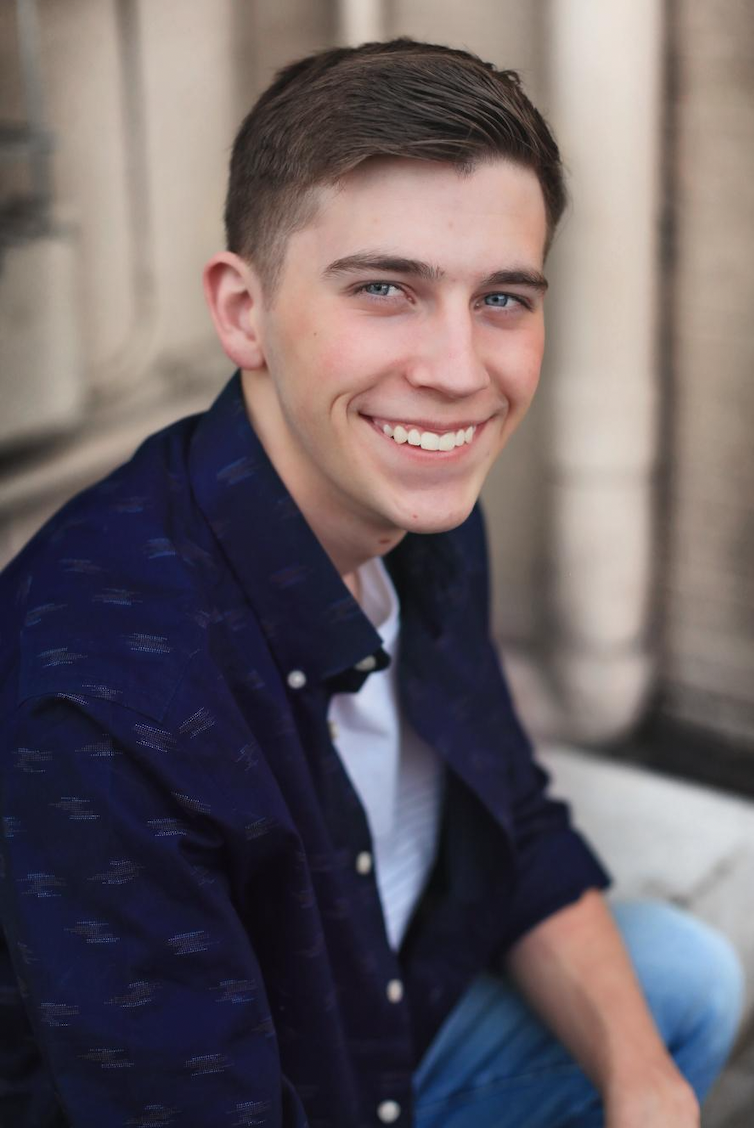
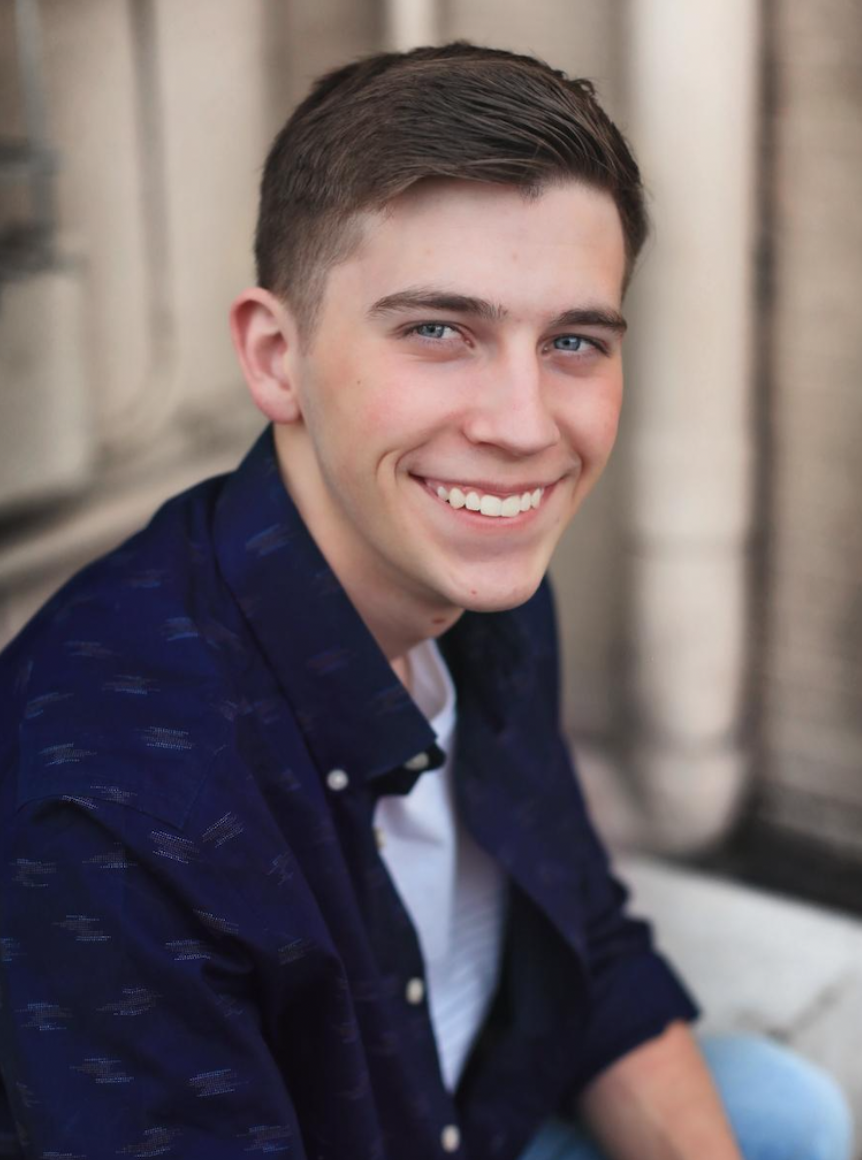
Home Page Done

diff --git a/Personal_Site/home.html b/Personal_Site/home.html
@@ -4,11 +4,14 @@
     <meta charset="UTF-8">
     <meta http-equiv="X-UA-Compatible" content="IE=edge">
     <meta name="viewport" content="width=device-width, initial-scale=1.0">
+    <link rel="stylesheet" href="styles/layout.css">
+    <link rel="stylesheet" href="styles/home.css">
+    
     <title>Jayton's Portfolio</title>
 </head>
 <body>
     <header>
-        <a href="home.html"><img src="img/logo.png" alt="Logo"></a>
+        <a href="home.html"><img src="img/logo.png" alt="Logo" id="logo"></a>
         <nav>
             <a href="home.html">Home</a>
             <a href="about-me.html">About Me</a>
@@ -18,27 +21,27 @@
     </header>
 
     <main>
-        <img src="img/portfolio-pic.png" alt="Picture of Jayton" width="400">
+        <img src="img/home_background.png" alt="Picture of Jayton" id="main_img" width="100%">
         <h1>Jayton Crockett</h1>
-        <h2>Computer Programmer</h2>
+        <h2>Full Stack Developer</h2>
     </main>
 
     <footer>
         <h3>Portfolio Site &copy; 2022 - Jayton Crockett</h3>
         
-        <a href="site-plan.html">Site-plan</a>
-        <a href="contact.html">Contact</a>
+        <a href="site-plan.html" class="footer_links">Site-plan</a>
+        <a href="contact.html" class="footer_links">Contact</a>
         <div class="social">
             <a href="https://facebook.com/" target="_blank">
-                <img src="img/facebook.png" alt="fb icon" width="40px">
+                <img src="img/facebook.png" alt="fb icon">
             </a>
 
             <a href="https://instagram.com" target="_blank">
-                <img src="img/instagram.png" alt="instagram icon" width="40px">
+                <img src="img/instagram.png" alt="instagram icon">
             </a>
 
             <a href="https://linkedin.com" target="_blank">
-                <img src="img/linkedin.png" alt="linkedin icon" width="40px">
+                <img src="img/linkedin.png" alt="linkedin icon">
             </a>
         </div>
     </footer>

diff --git a/Personal_Site/styles/layout.css b/Personal_Site/styles/layout.css
@@ -1,0 +1,84 @@
+
+/* body */
+body{
+    background-color: #6f3e9f1c;
+}
+
+/* Header */
+header{
+    background-color: #191827;
+    margin: -36px -10px 10px -10px;
+    padding: 65px 10px;
+}
+img#logo{
+    width: 100px;
+    float: left;
+    margin-top: -30px; 
+    margin-left: 25px;
+    padding: 0px 0px 10px 10px;
+    transition: transform .6s;
+}
+img#logo:hover{
+    transform: scale(1.1);
+}
+nav{
+    float: right;
+}
+nav a{
+    font-size: 1.15em;
+    text-align: center;
+    color: #03DBE9;
+    text-decoration: none;
+    padding: 15px 22px;
+    transition: .3s ease-out,color .2s ease-out;
+}
+nav a:hover{
+    background-color: #6E3E9F;
+    color: white;
+}
+
+/* Footer */
+footer{
+    background-color: #191827;
+    margin: 15px -10px -15px -10px;
+    color: white;
+    display: grid;
+    padding: 20px 0px;
+}
+h3{
+    grid-column: 1;
+}
+a:nth-of-type(1){
+    grid-column: 6;
+    margin-right: 0;
+}
+a:nth-of-type(2){
+    grid-column: 7;
+    padding-top: 15px;
+}
+a.footer_links{
+    font-size: 1.15em;
+    text-align: center;
+    color: #03DBE9;
+    margin: 15px 0px 15px auto;
+    padding: 5px 11px;
+    transition: .3s ease-out,color .2s ease-out;
+}
+a:hover.footer_links{
+    background-color: #6E3E9F;
+    color: white;
+}
+a{
+    text-decoration: none;
+}
+div.social{
+    grid-column: 8;
+    margin: auto;
+}
+.social img{
+    width: 30px;
+    transition: .2s ease-in;
+}
+.social img:hover{
+    opacity: .5;
+}

diff --git a/Positioning_2/positioning.html b/Positioning_2/positioning.html
@@ -1,0 +1,39 @@
+<!DOCTYPE html>
+<html lang="en">
+<head>
+    <meta charset="UTF-8">
+    <meta http-equiv="X-UA-Compatible" content="IE=edge">
+    <meta name="viewport" content="width=device-width, initial-scale=1.0">
+    <link rel="stylesheet" href="positionstyles.css">
+    <title>Positioning 2</title>
+</head>
+<body>
+    <main>
+
+        <section class="block_1">
+            <h1>The Cataract of Lodore</h1>
+            <p>...The cataract strong</p>
+            <p>Then plunges along,</p>
+            <p>Striking and raging</p>
+        </section>
+        <h2>
+            Example
+        </h2>
+        <section class="block_2">
+            <p>As if a war waging Its caverns and rocks among;</p>
+            <p>Rising and leaping, Sinking and creeping</p>
+            <p>Swelling and sweeping, Showering and springing,</p>
+        </section>
+        <section class="block_3">
+            <p>Flying and dlinging, Writhing and ringing,</p>
+            <p>Eddying and whisking, Sputing and frisking</p>
+            <p>Turning and twisting,</p>
+        </section>
+        <section class="block_4">
+            <p>Around and around With endless rebound:</p>
+            <p>Smiting and fighting, A sight to delight in;</p>
+            <p>Confounding, astounding, Dizzying and deafening the ear with its sound.</p>
+        </section>
+    </main>
+</body>
+</html>

diff --git a/Positioning_2/positionstyles.css b/Positioning_2/positionstyles.css
@@ -1,0 +1,53 @@
+main{
+    margin: 0px 200px;
+
+}
+
+/* Sections */
+section{
+    width: 50%;
+    border: 1px solid black;
+}
+section:nth-of-type(1){
+    align-content: center;
+}
+section:nth-of-type(2){
+    margin-left: auto;
+    margin-right: auto;
+    display: block;
+}
+section:nth-of-type(3){
+    margin-right: 0px;
+    margin-left: auto;
+}
+
+section:nth-of-type(4){
+    margin-left: auto;
+    margin-right: auto;
+    display: block;
+}
+
+/* Paragraphs */
+p:nth-of-type(2){
+    text-align: center;
+}
+p:nth-of-type(3){
+    text-align: right;
+}
+
+section:nth-of-type(4) p:nth-of-type(1){
+    text-align: right;
+}
+section:nth-of-type(4) p:nth-of-type(3){
+    text-align: left;
+}
+
+/* Example */
+h2{
+    font-size: 1.5em;
+    color: red;
+    text-align: center;
+    margin-top: -100px;
+    margin-left: 50px;
+    padding-bottom: 52px;
+}

diff --git a/Personal_Site/styles/home.css b/Personal_Site/styles/home.css
@@ -1,0 +1,25 @@
+main{
+    display: grid;
+}
+#main_img{
+    grid-column: 1/15;
+    grid-row: 1/6;
+}
+h1{
+    grid-column: 8/11;
+    grid-row: 2/4;
+    padding: 20px 20px 20px 20px;
+    margin-top: -15px;
+    background-color: #5d1d9d;
+    color: white;
+    border-radius: 25px 25px 0px 0px;
+}
+h2{
+    grid-column: 9/13;
+    grid-row: 3/5;
+    padding: 0px 20px 0px 20px;
+    margin-bottom: -15px;
+    background-color: #6E3E9F;
+    color: white;
+    border-radius: 0px 0px 25px 25px;
+}

diff --git a/Personal_Site/site-plan.html b/Personal_Site/site-plan.html
@@ -4,7 +4,7 @@
   <head>
     <meta charset="utf-8">
     <title>Site Plan</title>
-    <link type="text/css" rel="stylesheet" href="site-plan.css">
+    <link type="text/css" rel="stylesheet" href="styles/site-plan.css">
   </head>
 
   <body>
